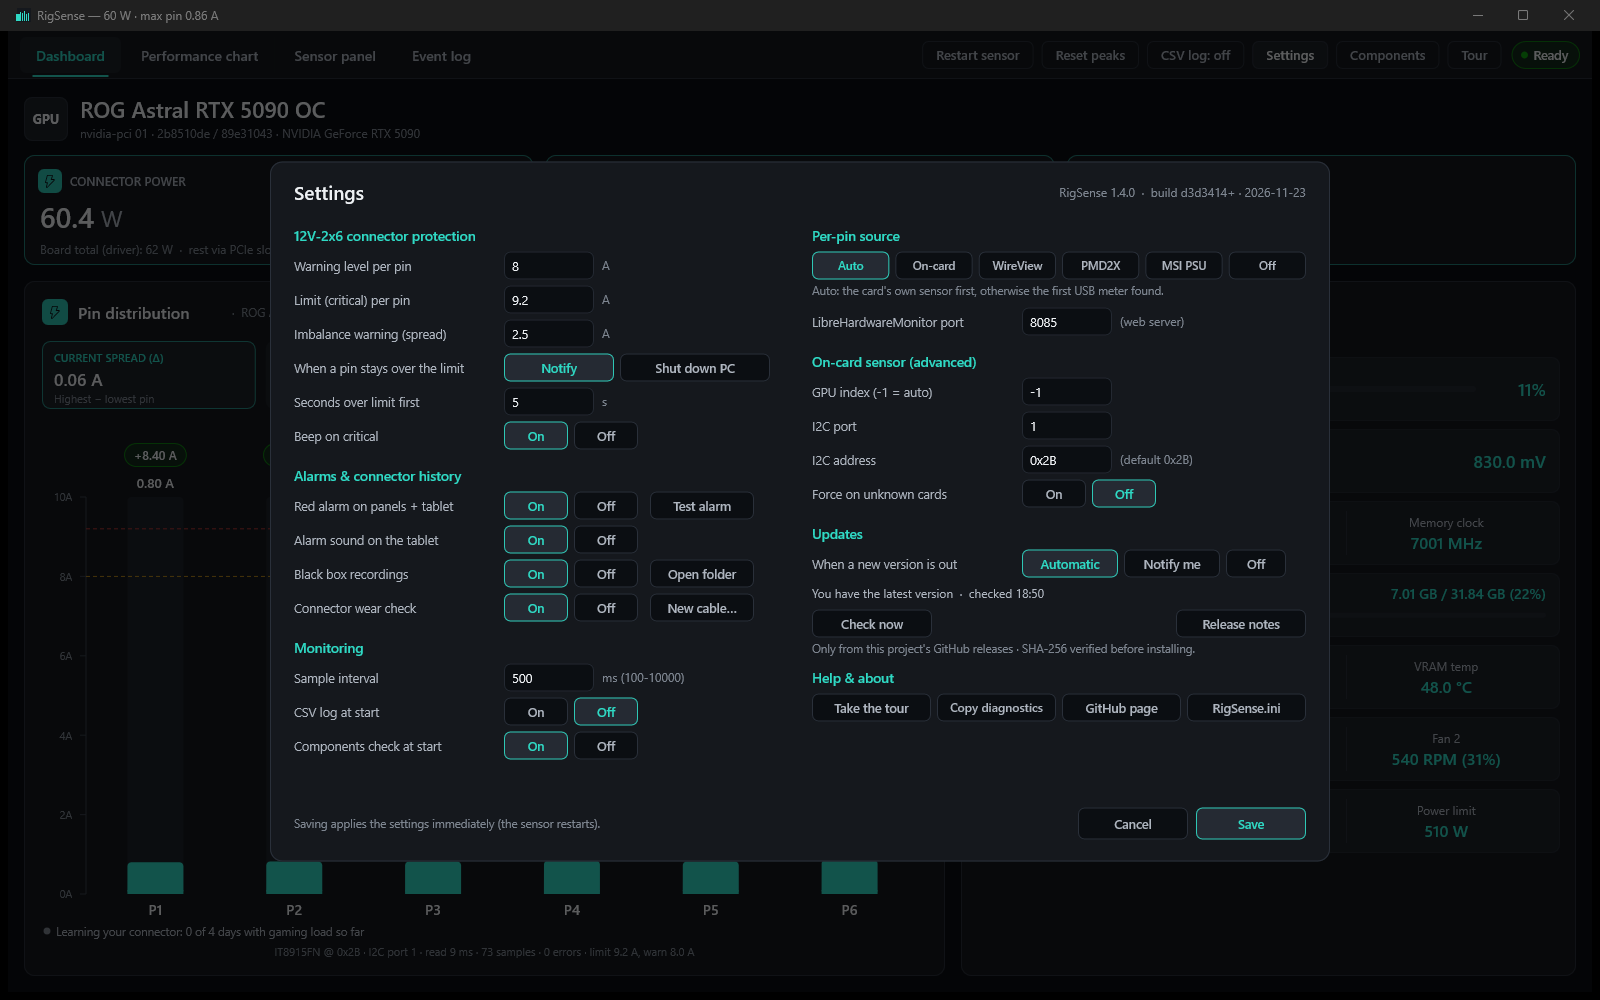
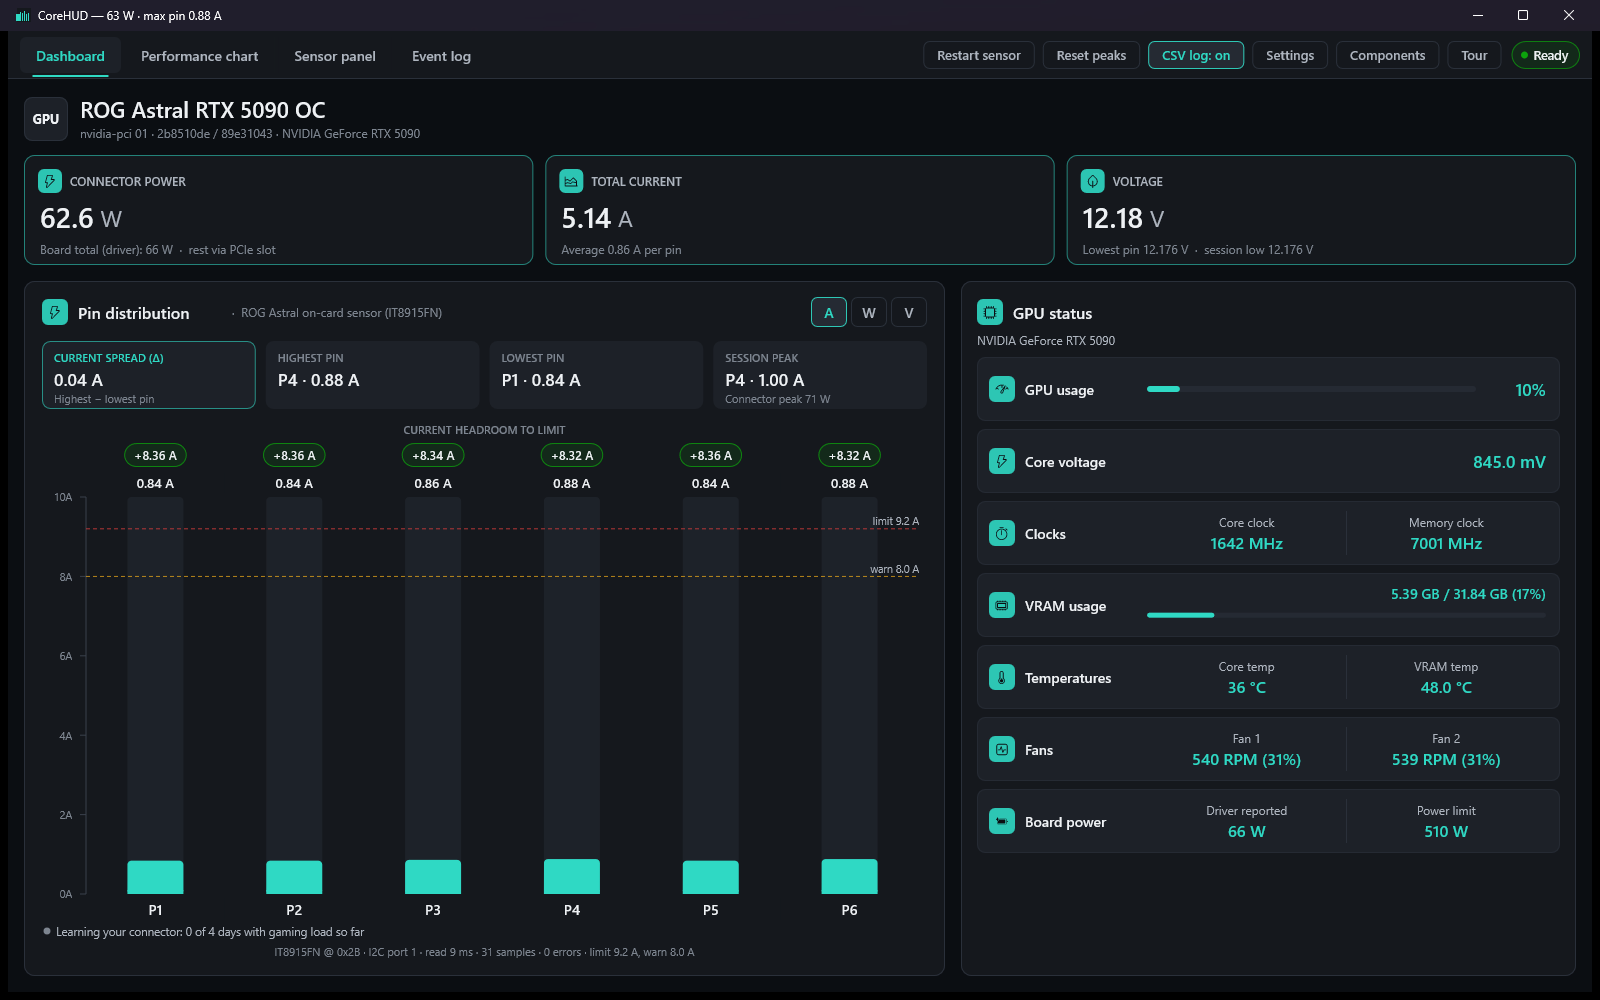
Realistic test alarm, demo GIF, CoreHUD screenshots
- Settings > Test alarm shows the real alarm layout (example pin reading, labelled TEST ALARM).
- docs/screenshots/demo.gif (850 px, 15 fps, 8 s, 0.8 MB): live panel, resizing a widget in the
  designer, the connector alarm; embedded at the top of the README. All screenshots retaken as CoreHUD.

diff --git a/README.md b/README.md
@@ -4,7 +4,7 @@
 
 CoreHUD is a single small native app (C++, Win32 + Direct2D), not a web or Electron app. It sends no telemetry and doesn't need an account. You can design your own sensor panel for any case screen, or run it as a virtual panel on your desktop.
 
-![Virtual sensor panel](docs/screenshots/virtual-panel.png)
+![CoreHUD demo: a live sensor panel with per-pin 12V-2x6 readings, resizing a widget in the designer, and the red connector alarm](docs/screenshots/demo.gif)
 
 ---
 
@@ -42,8 +42,10 @@ CoreHUD is a single small native app (C++, Win32 + Direct2D), not a web or Elect
 | ![Dashboard](docs/screenshots/dashboard.png) | ![Panel editor](docs/screenshots/panel-editor.png) |
 | **Performance chart** | **Component check** |
 | ![Chart](docs/screenshots/chart.png) | ![Components](docs/screenshots/components.png) |
-| **Alarm on every screen** (Settings → Test alarm, on a 1920×480 bar) | **Guided tour** |
+| **Alarm on every screen** (Settings → Test alarm) | **Guided tour** |
 | ![Connector alarm](docs/screenshots/alarm.png) | ![Guided tour](docs/screenshots/tour.png) |
+| **Virtual panel** (a 1920×480 case-bar layout as a floating window) | **Tablet / phone panel** |
+| ![Virtual sensor panel](docs/screenshots/virtual-panel.png) | ![Tablet dialog](docs/screenshots/tablet.png) |
 
 ---
 
@@ -223,7 +225,8 @@ Settings (`[Tablet]` in `CoreHUD.ini`): `Mode` = `off` / `usb` / `wifi` (USB + W
 **1.5.0**
 - **New name: CoreHUD** (the program, its settings file `CoreHUD.ini`, and the GitHub repository).
 - **Power connector detection:** 12V-2x6 or 1–3× 8-pin PCIe, read from the card's power-rail telemetry or its per-pin sensor, with a manual choice in **Settings → Power connector**. Cards with 8-pin connectors get a connector view with the power per 8-pin input (when reported) instead of the pin chart, the *Connector power* card sums the 8-pin inputs, and the guided tour explains the connector your card actually has.
-- The Windows file version now matches the release version.
+- **Settings → Test alarm** now shows exactly what a real alarm looks like (an example pin reading, labelled as a test), on every panel and the tablet.
+- The Windows file version now matches the release version. New demo GIF and screenshots.
 
 **1.4.0**
 - **Layouts ("save slots"):** keep as many sensor panel layouts as you like, each with its own display. Several can be open at once (one fullscreen per display plus floating windows), and the tablet shows its own chosen layout. New / Duplicate / rename / Delete (to `layouts\deleted`) in the editor. Import adds a new layout and never overwrites. Your existing panel moves in automatically as "My panel".
